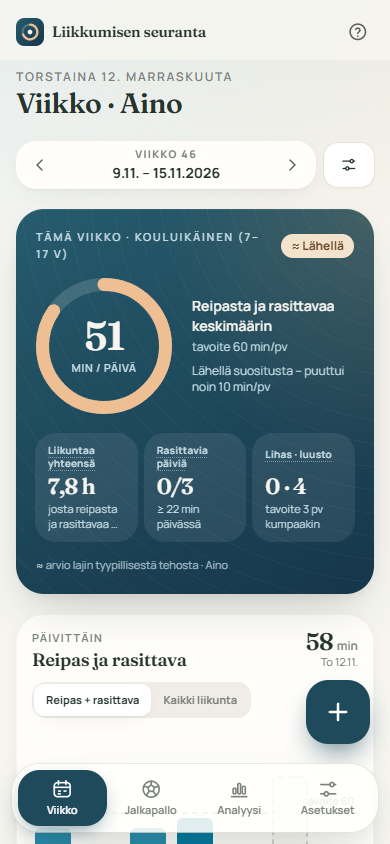
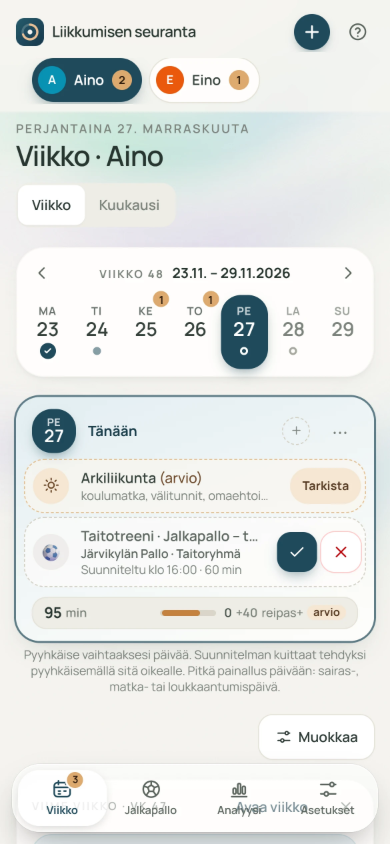
Alkusivu ja asennuskuvat ajan tasalle (1.1.116)
Alkusivun kuvat otettu uudelleen esimerkkitilasta (uusi pc-football),
tekstit uusiin ominaisuuksiin ja manifestin asennuskuvat päivitetty.
Kuvausskripti tuntee PC:n välilehdet.

diff --git a/src/features/landing/Landing.tsx b/src/features/landing/Landing.tsx
@@ -16,6 +16,7 @@ type ShotName =
   | 'pc-week'
   | 'pc-analysis'
   | 'pc-calendar'
+  | 'pc-football'
   | 'pc-theme'
   | 'pc-family'
   | 'pc-story'
@@ -35,10 +36,11 @@ const SHOTS: Record<ShotName, { w: number; h: number; alt: string }> = {
   'pc-theme': { w: 1280, h: 800, alt: 'Viikkonäkymä PC:llä Kanerva-väriteemalla ja nurmitaustalla' },
   'pc-family': { w: 1280, h: 800, alt: 'Koko perheen kalenteri PC:llä: sisarusten treenit ja pelit väreittäin' },
   'pc-story': { w: 1280, h: 800, alt: 'Kauden kooste PC:llä: paras viikko' },
+  'pc-football': { w: 1280, h: 800, alt: 'Jalkapallo PC:llä: seuraava peli laskurilla, tulevat pelit, kauden tilastot ja päiväkirja' },
   'phone-week': { w: 390, h: 844, alt: 'Viikkonäkymä puhelimella' },
   'phone-add': { w: 390, h: 844, alt: 'Uuden kerran kirjaus puhelimella' },
   'phone-analysis': { w: 390, h: 844, alt: 'Analyysi puhelimella: reipas ja rasittava liikunta kuukausittain' },
-  'phone-football': { w: 390, h: 844, alt: 'Jalkapallon kausi puhelimella: treenit, pelit ja maalit' },
+  'phone-football': { w: 390, h: 844, alt: 'Jalkapallo puhelimella: seuraava peli laskurilla ja kauden tilastot' },
   'phone-preview': { w: 390, h: 844, alt: 'Otteluennakon jakokuva puhelimella' },
   'phone-theme': { w: 390, h: 844, alt: 'Ulkoasuasetukset puhelimella: tumma teema ja väriteemat' },
   'phone-family': { w: 390, h: 844, alt: 'Koko perheen pelikalenteri puhelimella, päällekkäiset pelit merkitty' },
@@ -63,9 +65,9 @@ const SCENES: Scene[] = [
   { phone: 'phone-week', pc: 'pc-week', title: 'Kuittaus yhdellä napautuksella', text: 'Viikon harrastukset ovat valmiina. Tehty treeni kuitataan, poissaolo merkitään syineen.', chips: ['Kuittaa', 'Viikkorytmi'] },
   { phone: 'phone-add', pc: 'pc-week', title: 'Viikko ja huomiot', text: 'Näet heti, täyttyykö liikkumissuositus, ja huomiot kertovat, mikä muuttui. Muu liikunta: laji ja kesto.', chips: ['Viikon huomiot', 'Suosikkilajit ensin'] },
   { phone: 'phone-analysis', pc: 'pc-analysis', title: 'Kehitys kuukausittain', text: 'Kaudet, lajit ja suositusten toteutuminen. Raportit PDF:nä.', chips: ['Kausi kerralla', 'Raportti PDF:nä'] },
-  { phone: 'phone-theme', pc: 'pc-theme', title: 'Oman näköinen', text: 'Vaalea tai tumma teema, neljä väriteemaa ja taustat, myös oma kuva.', chips: ['4 väriteemaa', 'Tumma teema'] },
-  { phone: 'phone-football', pc: 'pc-calendar', title: 'Pelit ja tulokset', text: 'Pelikalenteri, turnaukset, joukkueet ja kauden tilastot.', chips: ['Kauden tilastot', 'Omat maalit'] },
-  { phone: 'phone-family', pc: 'pc-family', title: 'Koko perheen kalenteri', text: 'Sisarusten treenit ja pelit samassa kalenterissa. Päällekkäiset pelit näkyvät heti.', chips: ['Päällekkäin', 'Vienti kalenteriin'] },
+  { phone: 'phone-theme', pc: 'pc-theme', title: 'Oman näköinen', text: 'Vaalea tai tumma teema, neljä väriteemaa, kolme fonttia ja taustat, myös oma kuva.', chips: ['4 väriteemaa', 'Tumma teema'] },
+  { phone: 'phone-football', pc: 'pc-football', title: 'Pelit ja tulokset', text: 'Seuraava peli laskurilla, pelikalenteri, turnaukset ja kauden tilastot.', chips: ['Seuraava peli', 'Omat maalit'] },
+  { phone: 'phone-family', pc: 'pc-family', title: 'Koko perheen kalenteri', text: 'Sisarusten menot samassa kalenterissa. Päivät, joilla menot osuvat päällekkäin, korostuvat.', chips: ['Päällekkäin', 'Vienti kalenteriin'] },
   { phone: 'phone-story', pc: 'pc-story', title: 'Kauden kooste', text: 'Kauden kohokohdat tarinakortteina. Tallenna kuvana tai jaa.', chips: ['Paras viikko', 'Jaa kuvana'] },
   { phone: 'phone-preview', pc: 'pc-calendar', title: 'Ennakot jakoon', text: 'Otteluennakko kuvana tai videona joukkueen WhatsApp-ryhmään.', chips: ['Kuva tai video', 'Jaa ryhmään'] },
 ];
@@ -162,6 +164,7 @@ export function Landing({ onUnlock, linkFailed }: { onUnlock: () => void; linkFa
           points={[
             'Arkiliikunta, kuten välitunnit ja koulumatkat, arvioidaan kerran ja lasketaan mukaan',
             'Kuittaa tiedoilla: toteutunut kesto, teho ja omatoiminen verryttely samalla kertaa',
+            'Sekuntikello: kellota treenin tai lenkin todellinen aika, ja kerta kirjautuu valmiiksi',
             'Poissaolot ja peruutukset merkitään syineen',
             'Muut menot, kuten hammaslääkäri tai mummolan kyläily, kalenterimerkintöinä viikolle ja pelikalenteriin',
           ]}
@@ -179,6 +182,7 @@ export function Landing({ onUnlock, linkFailed }: { onUnlock: () => void; linkFa
             'Alle kouluikäisillä kolme tuntia liikkumista päivässä',
             'Viikon huomiot: suosituksen toteutuminen ja ohjatun urheilun kuormitus tutkimustiedon valossa',
             'Raportti kaudesta PDF-tiedostona',
+            'Jaa valmentajalle: kooste koko liikunnasta ja kuormituksesta viikoittain',
           ]}
         >
           <Shot name="pc-analysis" onZoom={setZoom} className="lp-pc" />
@@ -188,10 +192,12 @@ export function Landing({ onUnlock, linkFailed }: { onUnlock: () => void; linkFa
           id="jalkapallo"
           kicker="Jalkapalloperheille"
           title="Pelit, tulokset ja koko perheen kalenteri"
-          text="Pelikalenteri ja tulokset on tehty jalkapalloperheen tarpeisiin. Turnaukset, ottelut ja tulokset ovat yhdessä paikassa. Sisarusten treenit ja pelit näkyvät samassa kalenterissa omilla väreillään, ja päällekkäiset pelit huomaa heti. Otteluennakon ja tuloksen voi jakaa kuvana tai videona joukkueen WhatsApp-ryhmään."
+          text="Pelikalenteri ja tulokset on tehty jalkapalloperheen tarpeisiin. Turnaukset, ottelut ja tulokset ovat yhdessä paikassa, ja kausikortista näet seuraavan pelin laskureineen. Sisarusten treenit, pelit ja muut menot näkyvät samassa kalenterissa omilla väreillään, ja päällekkäiset menot huomaa heti. Otteluennakon ja tuloksen voi jakaa kuvana tai videona joukkueen WhatsApp-ryhmään."
           points={[
             'Joukkueet ja treeniryhmät sarjoineen, tilastot joukkueittain',
+            'Kausikortti: seuraava peli laskurilla, tulevat pelit, voitot, tasapelit ja häviöt sekä maalit',
             'Pelipäivän pikakirjaus: tulos, omat maalit ja peliaika suoraan kortista, myös turnauksessa peli kerrallaan',
+            'Loukkaantumisjakso: paluupäivä, ja jakson treenit merkitään poissaoloiksi',
             'Muut lajit, kuten jääkiekko, salibandy, uinti ja tanssi, kirjataan samalla tavalla ja lasketaan mukaan suosituksiin',
           ]}
         >

diff --git a/src/features/help/changelog.ts b/src/features/help/changelog.ts
@@ -9,6 +9,14 @@ export interface Release {
 
 export const CHANGELOG: Release[] = [
   {
+    version: '1.1.116',
+    date: '27.11.2026',
+    items: [
+      'Alkusivu päivitetty: uudet kuvat sovelluksen nykyisestä ulkoasusta (myös Jalkapallon kausikortti PC:llä ja puhelimella) ja tekstit uusiin ominaisuuksiin, kuten seuraavan pelin laskuri, sekuntikello, Jaa valmentajalle, loukkaantumisjakso, fontit ja koko perheen päällekkäiset menot.',
+      'Sovelluksen asennusikkunan esikatselukuvat päivitetty.',
+    ],
+  },
+  {
     version: '1.1.115',
     date: '27.11.2026',
     items: ['Korjaus: asennetussa PC-sovelluksessa Jalkapallon välilehdet jäivät vieritettäessä osin ikkunan yläpalkin alle. Nyt ne kiinnittyvät yläpalkin alapuolelle.', 'Kiinnittyneen välilehtipalkin alakulmat on pyöristetty.'],

diff --git a/src/domain/version.ts b/src/domain/version.ts
@@ -1,5 +1,5 @@
 /** Sovelluksen versio varmuuskopio- ja synkronointitiedostoihin (pidä samana kuin package.json). */
-export const APP_VERSION = '1.1.115';
+export const APP_VERSION = '1.1.116';
 
 export const BACKUP_FORMAT = 'liikkumisseuranta-backup';
 export const SYNC_FORMAT = 'liikkumisseuranta-sync';

diff --git a/SPEC.md b/SPEC.md
@@ -1742,3 +1742,4 @@ Käyttäjän pyynnöstä MVP:n jälkeen toteutetut muutokset. Tietomalli on nyt 
 - **27.11.2026 Seuraava peli -laskuri laatikon leveyden mukaan** (versio 1.1.113; käyttäjän palaute: laskuri ei kasvanut). Syy: 1.1.112:n kiinteät rajat (laatikko ≥ 41rem / 44rem) eivät täyttyneet näytön skaalauksella (esim. 125 %), joten laskuri pysyi 24 px:ssä. `FootballHero`: PC:llä (hero ≥ 40rem) laskurin fonttikoko on laatikon (`@container/nx`) leveydestä laskettu (`cqi`), ruudut, välit ja yksiköt em-mitoissa. Leveänä (laatikko ≥ 26rem) laskuri tietojen vieressä: `clamp(26px, (100cqi − 12.5rem) / 6.9, 64px)`; otsikko `clamp(18px, 4.6cqi, 32px)` (enintään kaksi riviä), päivä ja aika `clamp(13px, 2.9cqi, 17px)`, paikka `clamp(12px, 2.5cqi, 15px)`. Kapeana (< 26rem) asettelu `'info btns' / 'timer timer'`: painikkeet kuvakkeina pelin nimen vieressä ja laskuri koko leveydeltä alla, `clamp(24px, 100cqi / 7.1, 44px)`; sekunnit näkyvät aina PC:llä. Puhelin ennallaan. Mitattu: 1 920 px laskuri 35 px (korkeus 221 px), 1 536 px 42 px (234 px, ennen 213 px), 1 100 px 32 px (218 px), 2 560 px 64 px (263 px).
 - **27.11.2026 Jalkapallon välilehdet erottuvammiksi PC:llä** (versio 1.1.114; käyttäjän palaute: palkki jäi huomaamatta). Uusi `FootballTabs` (vain lg ja leveämmät; puhelimella `Segmented` ennallaan): `role="tablist"`, välilehdet `role="tab"` + `aria-selected`, nuolinäppäimet, Home ja End. Jokaisessa kuvake (uudet `IconNotebook`, `IconUsers`; Kalenteri `IconCalendarClock`, Tulokset `IconTrophy`), 15 px teksti, valitulla korostusväri (`--focus`) ja 3 px alleviivaus. Määrät: Päiväkirja = kirjaukset (ei poistettuja eikä treeniin liitettyjä omatoimisia), Kalenteri = tulevat avoimet tapahtumat ("n tulossa"), Tulokset = pelatut pelit (`summarizeGames`, ilman harjoituspelejä); palkin (`@container/tb`) ollessa < 42rem määrät piilossa, < 52rem pelkkä luku. Palkki heti kausikortin (ja pelipäivän kortin) alla ja kiinnittyy PC:llä sivun yläreunaan; välilehden vaihto vierittää näkymän alkuun vain, kun palkki on jo kiinni (sivun alussa kausikortti jää näkyviin). PC:n Lisää kalenteriin -kortti poistettu: tilalla palkin oikeassa päässä Lisää kalenteriin -painike, joka avaa saman valintaikkunan kuin puhelimella (`Sheet`, PC:llä oikeasta reunasta).
 - **27.11.2026 Jalkapallon välilehdet ikkunan yläpalkin alle** (versio 1.1.115; käyttäjän palaute: palkki meni vieritettäessä osin ikkunan ylärajan alle). Syy: asennetussa PC-sovelluksessa (`window-controls-overlay`) ylälaidassa on kiinteä vetoalue (`.titlebar`, z 30), ja välilehdet kiinnittyivät kohtaan `top: 0`. Uusi CSS-muuttuja `--titlebar-h` (oletus 0px, `window-controls-overlay`-tilassa `env(titlebar-area-height, 33px)`); välilehtien kiinnityskohta PC:llä `top: var(--titlebar-h)`. Selaimessa ennallaan. Käyttäjän toiveesta kiinnittyneen palkin taustan alakulmat pyöristetty (`lg:rounded-b-2xl`).
+- **27.11.2026 Alkusivu ja asennuskuvat ajan tasalle** (versio 1.1.116; käyttäjän pyyntö). Kuvat otettu uudelleen esimerkkitilasta (`npm run shots`, edelliset 24.11.). `scripts/landing-shots.mjs`: uusi kuva `pc-football` (Jalkapallo PC:llä: kausikortti, välilehdet, päiväkirja); `phone-football` kuvaa nyt Jalkapallon alun (välilehdet ja kausikortti) Tulokset-näkymän sijaan; `radio()` löytää myös PC:n välilehden (`role="tab"`, näkyvä); kuukausikalenterien kohdistus −185 px (kiinnittyvä välilehtipalkki, päällekkäiset menot näkyvissä); `PREFS` nollaa myös `sidebarMini` ja `diaryView`; viikkonäkymistä lisäksi manifestin asennuskuvat `public/screenshot-wide.png` (1 280 × 800) ja `screenshot-narrow.png` (390 × 844), edelliset 12.11. `Landing.tsx`: esittelyn Pelit ja tulokset -kohtaus käyttää PC:llä kuvaa `pc-football` ("Seuraava peli laskurilla, pelikalenteri, turnaukset ja kauden tilastot", merkinnät Seuraava peli, Omat maalit); Oman näköinen mainitsee kolme fonttia; Koko perheen kalenteri: menot ja päällekkäisten päivien korostus. Ominaisuuskohdat: Kirjaaminen + sekuntikello, Analyysi + Jaa valmentajalle, Jalkapalloperheille + kausikortti (seuraava peli laskurilla, V–T–H, maalit) ja loukkaantumisjakso; jalkapallon esittelyteksti mainitsee kausikortin ja muut menot.
